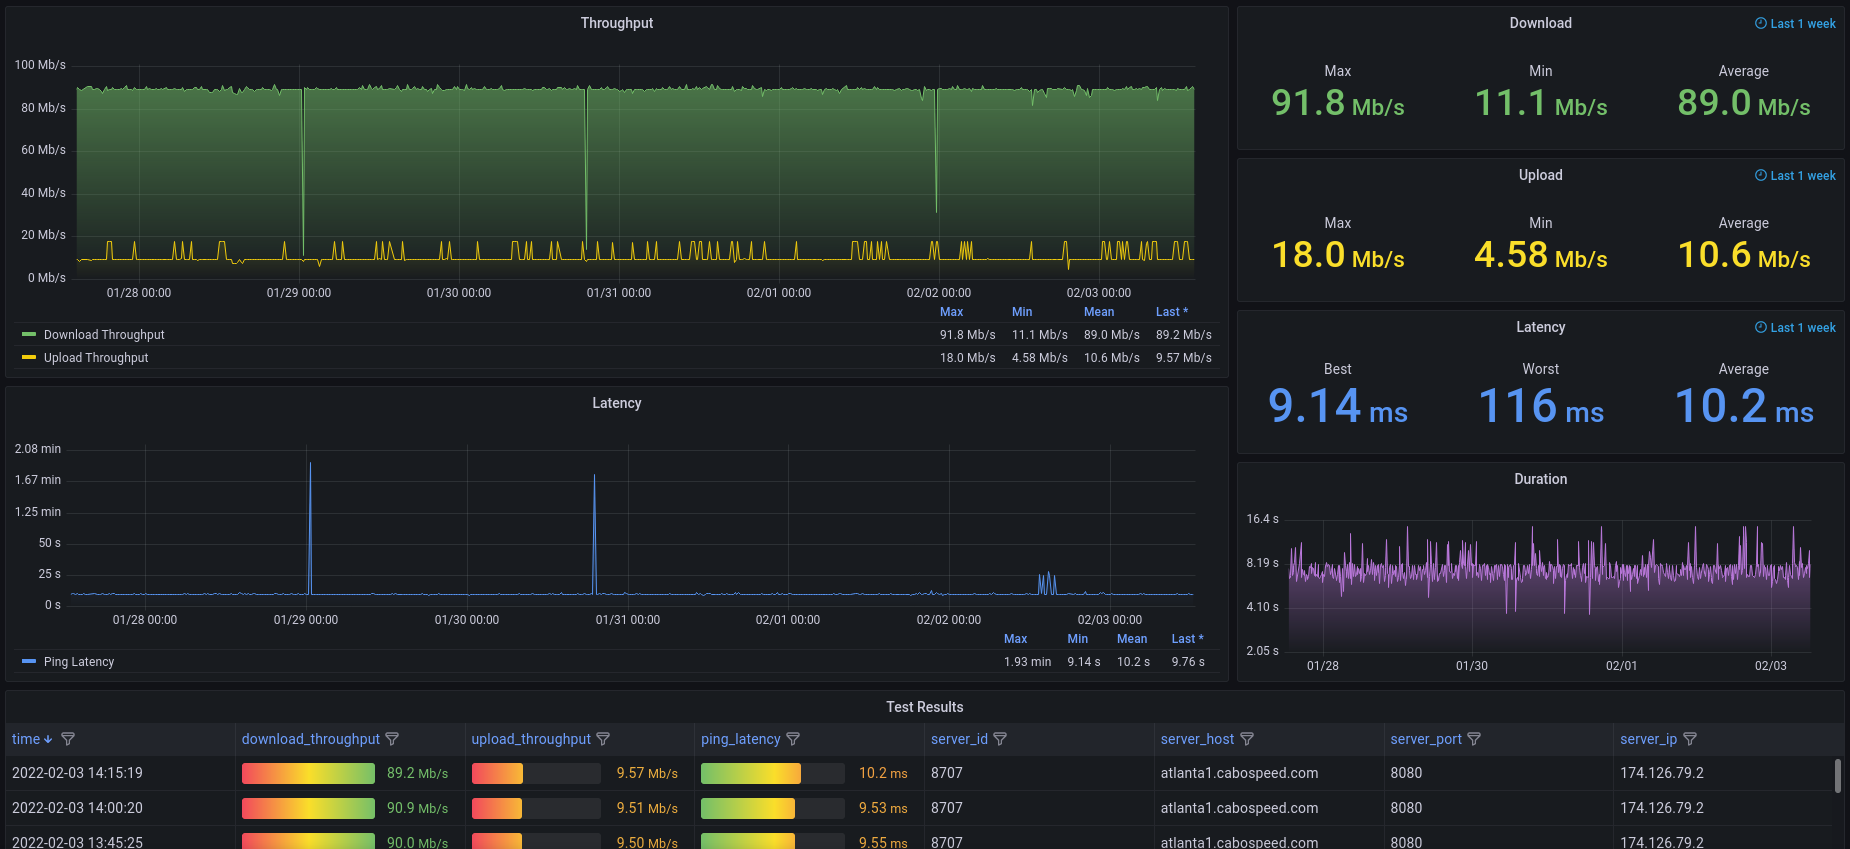
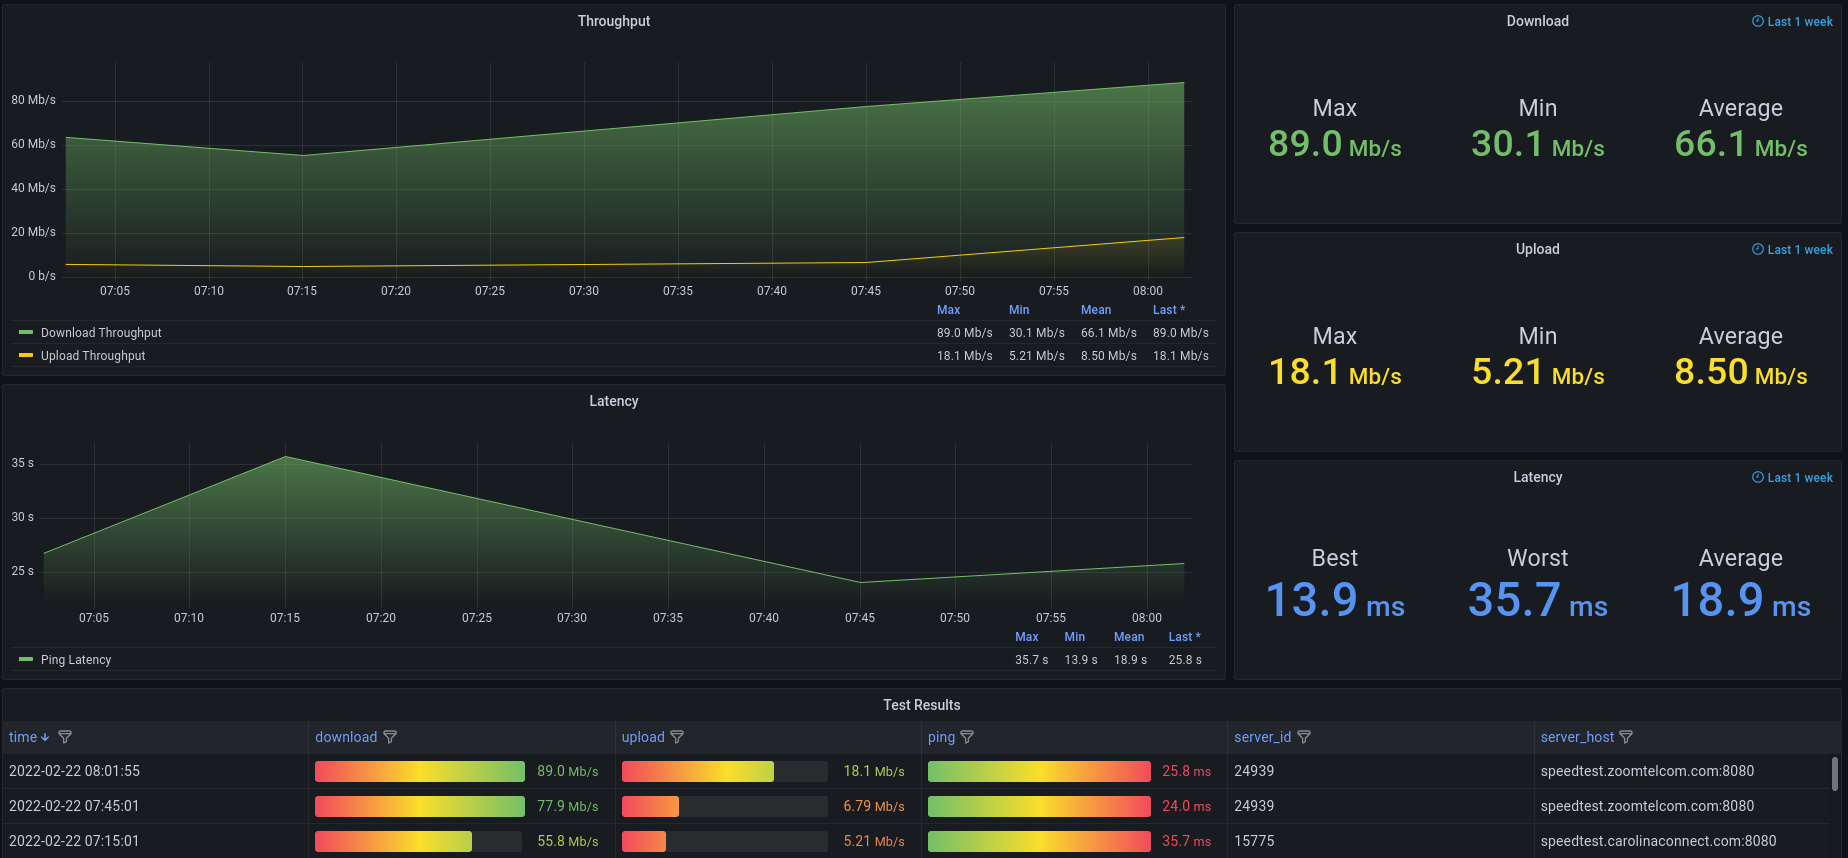
[0.4.1] - 2022-02-22 ## [0.4.1] - 2022-02-22 ### Changed - Dockerfile-speedtest: Added prune label to the base image build. - grafana/grafana_dashboard.json: Sorting test list by descending time. - README.md: Improved instructions for Docker operation. - speedtest_monitor.png: New screenshot to refl

diff --git a/speedtest_aio/config.py b/speedtest_aio/config.py
@@ -6,10 +6,10 @@
 # Application Variables
 app_dict = {
     "author": "Aaron Melton <aaron@aaronmelton.com>",
-    "date": "2022-02-21",
+    "date": "2022-02-22",
     "desc": "A Python script to capture speedtest JSON and insert it into a database.",
     "name": "speedtest_aio.py",
     "title": "Speedtest Monitor",
     "url": "https://github.com/aaronmelton/speedtest_aio",
-    "version": "v0.4.0",
+    "version": "v0.4.1",
 }

diff --git a/README.md b/README.md
@@ -11,14 +11,14 @@ This script was written to track internet speed using Ookla's speed test.
 
 This repository contains everything necessary to build your own Speedtest dashboard (Python script, SQLite database, Grafana dashboard).
 
-Total application size is less than 400MB!  ~276MB for Grafana; ~95MB for Python/SQLite
+Total application size is less than 400MB!  ~276MB for Grafana; ~104MB for Python/SQLite
 
 Dashboard and Database data is persistent through the use of Docker Volumes.
 
 ### Prerequisites
-* Docker; Verified to work with Docker version 20.10.12
-* Docker Compose; Verified to work with Docker Compose version 2.2.3 (Will not work with version 1.X.)
-* Docker host must be able to access Docker Hub
+* Docker; Verified to work with Docker version 20.10.12.
+* Docker Compose; Verified to work with Docker Compose version 2.2.3 (Will not work with version 1.X.).
+* Docker host must be able to access Docker Hub.
 
 #### Python Libraries
 * See [pyproject.toml](pyproject.toml)
@@ -32,6 +32,8 @@ Dashboard and Database data is persistent through the use of Docker Volumes.
 
 #### Docker Commands
 
+_(All Docker commands must be run from the cloned directory or you must specify the path and filename to docker-compose.yml.)_
+
 * To pull/build the necessary Docker images:
 `docker-compose build`
 
@@ -42,10 +44,10 @@ Dashboard and Database data is persistent through the use of Docker Volumes.
 `docker-compose down`
 
 * To wipe out your dashboard data:
-`docker-compose down` followed by `yes | docker volume prune`
+`docker-compose down` followed by `docker volume rm speedtest_aio_grafana-storage` and `docker volume rm speedtest_aio_speedtest-storage`
 
 * To remove intermediate build images (no longer required after `docker-compose build`):
-`yes | docker image prune --filter "label=prune=true"`
+`docker image prune --filter "label=prune=true"`
 
 #### Grafana
 

diff --git a/CHANGELOG.md b/CHANGELOG.md
@@ -1,5 +1,12 @@
 # CHANGELOG
 
+## [0.4.1] - 2022-02-22
+### Changed
+- Dockerfile-speedtest: Added prune label to the base image build.
+- grafana/grafana_dashboard.json: Sorting test list by descending time.
+- README.md: Improved instructions for Docker operation.
+- speedtest_monitor.png: New screenshot to reflect new layout.
+
 ## [0.4.0] - 2022-02-21
 ### Changed
 - docker-compose.yml: Updating paths to match changes in application.
